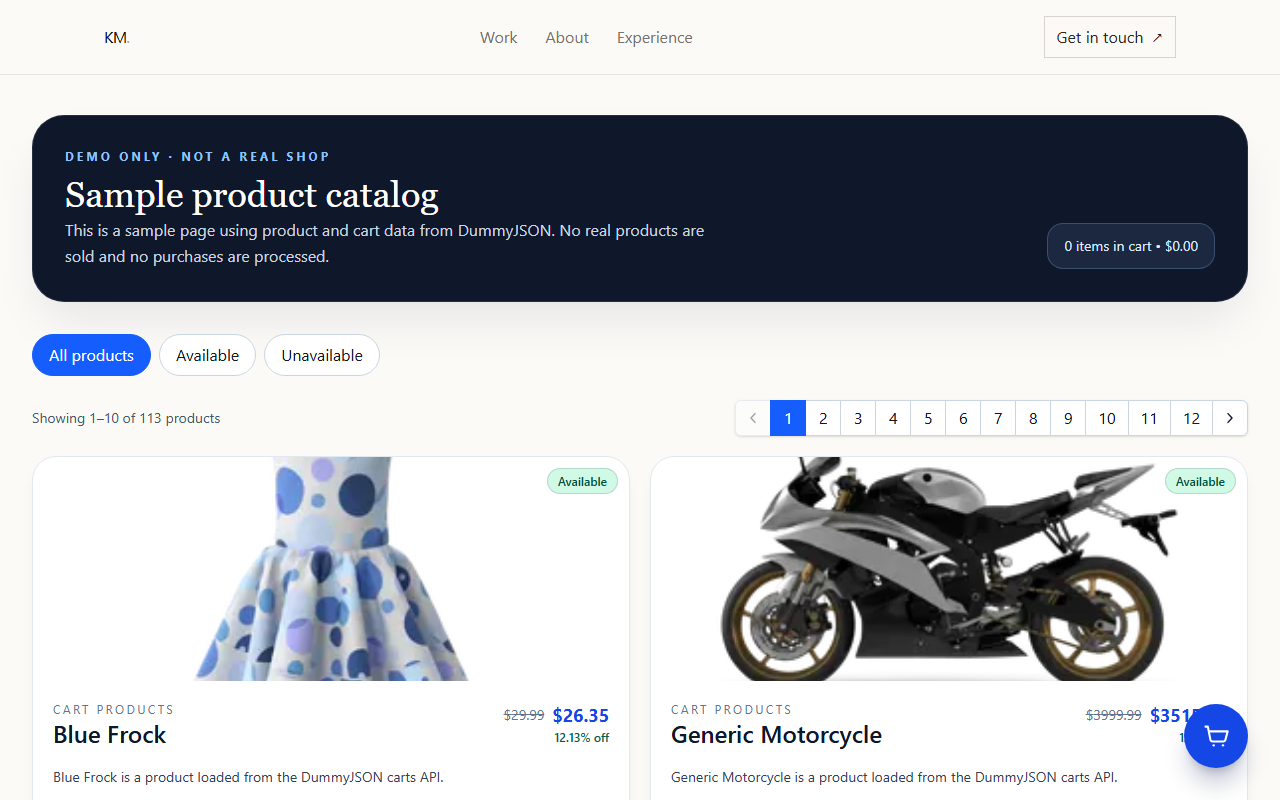
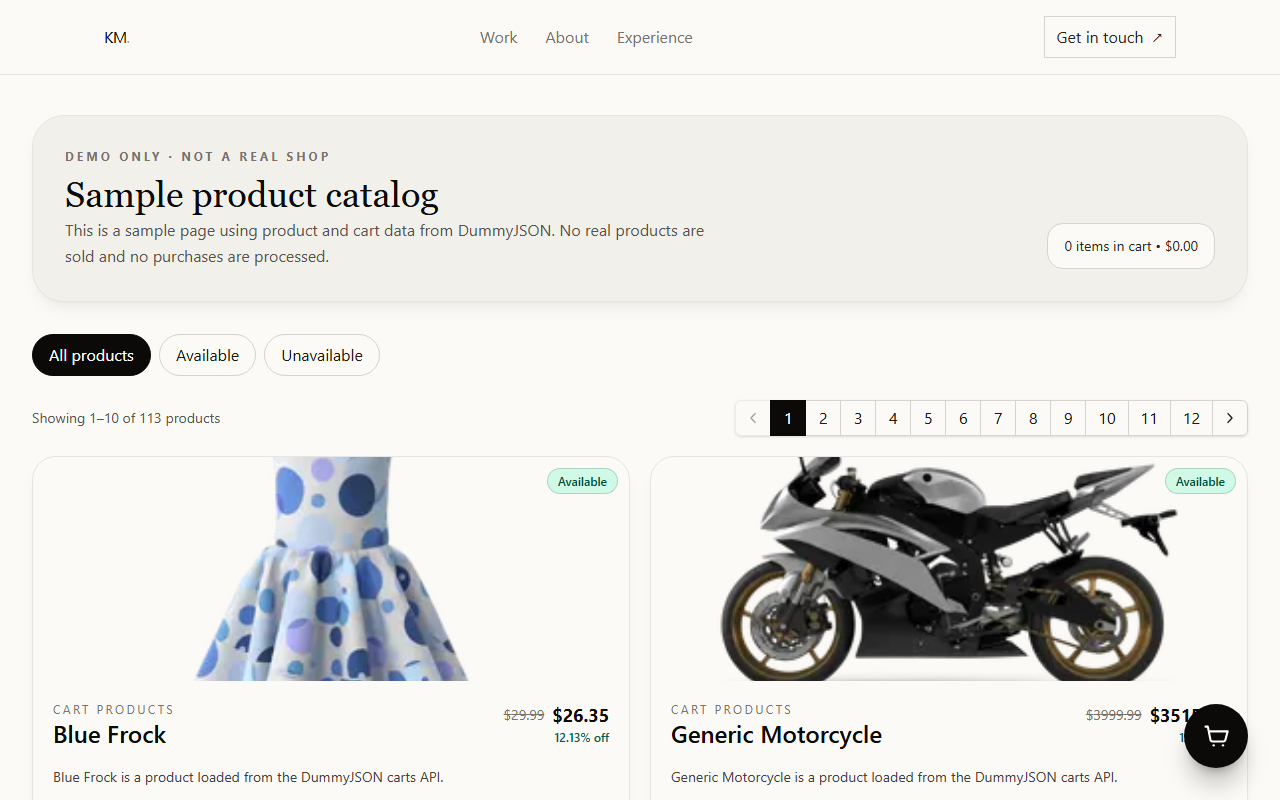
updated the UI of demo

diff --git a/src/routes/ShopPage.tsx b/src/routes/ShopPage.tsx
@@ -42,7 +42,7 @@ function ProductPagination({
       aria-label={`Product pages ${position}`}
       className="flex w-full min-w-0 flex-col items-center justify-between gap-3 sm:flex-row md:col-span-2"
     >
-      <p className="text-center text-sm text-slate-600 sm:text-left">
+      <p className="text-center text-sm text-stone-600 sm:text-left">
         Showing {(page - 1) * ITEMS_PER_PAGE + 1}–{Math.min(page * ITEMS_PER_PAGE, totalProducts)}{' '}
         of {totalProducts} products
       </p>
@@ -52,7 +52,7 @@ function ProductPagination({
           onClick={() => onPageChange(page - 1)}
           disabled={page === 1}
           aria-label="Previous page"
-          className="relative inline-flex h-9 w-9 items-center justify-center rounded-l-md border border-slate-300 bg-white text-slate-900 transition hover:bg-slate-100 focus-visible:z-10 focus-visible:outline-2 focus-visible:outline-offset-0 focus-visible:outline-blue-600 disabled:cursor-not-allowed disabled:opacity-40"
+          className="relative inline-flex h-9 w-9 items-center justify-center rounded-l-md border border-stone-300 bg-[#fbfaf7] text-stone-900 transition hover:bg-[#f2f0eb] focus-visible:z-10 focus-visible:outline-2 focus-visible:outline-offset-0 focus-visible:outline-stone-950 disabled:cursor-not-allowed disabled:opacity-40"
         >
           <svg aria-hidden="true" viewBox="0 0 20 20" fill="none" className="h-4 w-4">
             <path
@@ -72,11 +72,11 @@ function ProductPagination({
             aria-current={page === pageNumber ? 'page' : undefined}
             aria-label={`Page ${pageNumber}`}
             className={[
-              'relative -ml-px h-9 min-w-9 items-center justify-center border px-3 text-sm font-medium transition focus-visible:z-10 focus-visible:outline-2 focus-visible:outline-offset-0 focus-visible:outline-blue-600',
+              'relative -ml-px h-9 min-w-9 items-center justify-center border px-3 text-sm font-medium transition focus-visible:z-10 focus-visible:outline-2 focus-visible:outline-offset-0 focus-visible:outline-stone-950',
               pageNumber === page ? 'inline-flex' : 'hidden sm:inline-flex',
               page === pageNumber
-                ? 'z-10 border-blue-600 bg-blue-600 text-white'
-                : 'border-slate-300 bg-white text-slate-900 hover:bg-slate-100',
+                ? 'z-10 border-stone-950 bg-stone-950 text-white'
+                : 'border-stone-300 bg-[#fbfaf7] text-stone-900 hover:bg-[#f2f0eb]',
             ].join(' ')}
           >
             {pageNumber}
@@ -87,7 +87,7 @@ function ProductPagination({
           onClick={() => onPageChange(page + 1)}
           disabled={page === totalPages}
           aria-label="Next page"
-          className="relative -ml-px inline-flex h-9 w-9 items-center justify-center rounded-r-md border border-slate-300 bg-white text-slate-900 transition hover:bg-slate-100 focus-visible:z-10 focus-visible:outline-2 focus-visible:outline-offset-0 focus-visible:outline-blue-600 disabled:cursor-not-allowed disabled:opacity-40"
+          className="relative -ml-px inline-flex h-9 w-9 items-center justify-center rounded-r-md border border-stone-300 bg-[#fbfaf7] text-stone-900 transition hover:bg-[#f2f0eb] focus-visible:z-10 focus-visible:outline-2 focus-visible:outline-offset-0 focus-visible:outline-stone-950 disabled:cursor-not-allowed disabled:opacity-40"
         >
           <svg aria-hidden="true" viewBox="0 0 20 20" fill="none" className="h-4 w-4">
             <path
@@ -220,22 +220,22 @@ export default function ShopPage() {
 
   return (
     <main className="mx-auto max-w-7xl px-3 py-6 sm:px-6 sm:py-10 lg:px-8">
-      <header className="mb-6 rounded-3xl border border-white/10 bg-[#0f172a] p-4 text-white shadow-2xl shadow-slate-900/10 sm:mb-8 sm:rounded-[2rem] sm:p-8">
+      <header className="mb-6 rounded-3xl border border-stone-200 bg-[#f2f0eb] p-4 text-stone-950 shadow-lg shadow-stone-900/5 sm:mb-8 sm:rounded-[2rem] sm:p-8">
         <div className="flex flex-col gap-5 lg:flex-row lg:items-end lg:justify-between">
           <div>
-            <p className="mb-2 text-xs font-bold uppercase tracking-[0.25em] text-blue-300">
+            <p className="mb-2 text-xs font-bold uppercase tracking-[0.25em] text-stone-500">
               Demo only · not a real shop
             </p>
             <h1 className="font-serif text-2xl font-medium leading-tight sm:text-4xl">
               Sample product catalog
             </h1>
-            <p className="mt-3 max-w-2xl text-sm leading-relaxed text-slate-300 sm:text-base">
+            <p className="mt-3 max-w-2xl text-sm leading-relaxed text-stone-600 sm:text-base">
               This is a sample page using product and cart data from DummyJSON. No real products are
               sold and no purchases are processed.
             </p>
           </div>
 
-          <div className="w-fit max-w-full break-words rounded-2xl border border-blue-300/25 bg-blue-300/10 px-4 py-3 text-sm text-blue-100">
+          <div className="w-fit max-w-full break-words rounded-2xl border border-stone-300 bg-[#fbfaf7] px-4 py-3 text-sm text-stone-800">
             {totalItems} items in cart •{' '}
             {discountedTotal < totalPrice && (
               <span className="mr-1 line-through">${totalPrice.toFixed(2)}</span>
@@ -246,7 +246,7 @@ export default function ShopPage() {
       </header>
 
       {isLoading && (
-        <div className="mb-6 rounded-2xl border border-slate-200 bg-white p-4 text-slate-700">
+        <div className="mb-6 rounded-2xl border border-stone-200 bg-[#fbfaf7] p-4 text-stone-700">
           Loading products...
         </div>
       )}
@@ -270,8 +270,8 @@ export default function ShopPage() {
             className={[
               'rounded-full border px-4 py-2 text-sm font-medium transition',
               filter === option
-                ? 'border-blue-600 bg-blue-600 text-white'
-                : 'border-slate-300 bg-white text-slate-900 hover:bg-slate-50',
+                ? 'border-stone-950 bg-stone-950 text-white'
+                : 'border-stone-300 bg-[#fbfaf7] text-stone-900 hover:bg-[#f2f0eb]',
             ].join(' ')}
           >
             {option === 'all'
@@ -307,7 +307,7 @@ export default function ShopPage() {
               <article
                 key={item.id}
                 data-interactive-card
-                className="overflow-hidden rounded-3xl border border-slate-200 bg-white shadow-lg shadow-slate-900/5"
+                className="overflow-hidden rounded-3xl border border-stone-200 bg-[#fbfaf7] shadow-lg shadow-stone-900/5"
               >
                 <div className="group relative overflow-hidden">
                   <img
@@ -330,19 +330,19 @@ export default function ShopPage() {
                 <div className="space-y-4 p-4 sm:p-5">
                   <div className="flex flex-col items-start gap-2 sm:flex-row sm:justify-between sm:gap-3">
                     <div className="min-w-0">
-                      <p className="text-xs uppercase tracking-[0.2em] text-slate-500">
+                      <p className="text-xs uppercase tracking-[0.2em] text-stone-500">
                         {item.category}
                       </p>
-                      <h2 className="mt-2 break-words text-xl font-semibold text-slate-900 sm:text-2xl">
+                      <h2 className="mt-2 break-words text-xl font-semibold text-stone-950 sm:text-2xl">
                         {item.name}
                       </h2>
                     </div>
                     <div className="flex flex-wrap items-center gap-x-2 sm:flex-col sm:items-end">
                       <div className="flex items-center gap-2">
                         {hasDiscount && (
-                          <del className="text-sm text-slate-500">${item.price.toFixed(2)}</del>
+                          <del className="text-sm text-stone-500">${item.price.toFixed(2)}</del>
                         )}
-                        <span className="text-lg font-bold text-blue-700">
+                        <span className="text-lg font-bold text-stone-950">
                           ${(item.discountedPrice ?? item.price).toFixed(2)}
                         </span>
                       </div>
@@ -354,15 +354,15 @@ export default function ShopPage() {
                     </div>
                   </div>
 
-                  <p className="text-sm leading-6 text-slate-700">{item.description}</p>
+                  <p className="text-sm leading-6 text-stone-700">{item.description}</p>
 
                   <div className="flex flex-col items-stretch gap-3 pt-2 sm:flex-row sm:items-center">
-                    <label className="flex items-center gap-2 text-sm text-slate-700">
+                    <label className="flex items-center gap-2 text-sm text-stone-700">
                       Qty
                       <select
                         value={quantity}
                         onChange={(event) => handleQuantityChange(item.id, event.target.value)}
-                        className="rounded-lg border border-slate-300 bg-white px-2 py-1.5 text-slate-900 focus:border-blue-600 focus:outline-none focus:ring-2 focus:ring-blue-600/20"
+                        className="rounded-lg border border-stone-300 bg-[#fbfaf7] px-2 py-1.5 text-stone-900 focus:border-stone-700 focus:outline-none focus:ring-2 focus:ring-stone-700/20"
                         disabled={!item.available || remainingQuantity === 0}
                       >
                         {Array.from(
@@ -410,7 +410,7 @@ export default function ShopPage() {
         aria-label={`Open cart, ${totalItems} ${totalItems === 1 ? 'item' : 'items'}`}
         aria-haspopup="dialog"
         aria-expanded={isCartOpen}
-        className="fixed bottom-5 right-5 z-40 flex h-14 w-14 items-center justify-center rounded-full bg-blue-700 text-white shadow-xl shadow-blue-950/25 transition hover:bg-blue-800 focus-visible:outline-2 focus-visible:outline-offset-4 focus-visible:outline-blue-700 sm:bottom-8 sm:right-8 sm:h-16 sm:w-16"
+        className="fixed bottom-5 right-5 z-40 flex h-14 w-14 items-center justify-center rounded-full bg-stone-950 text-white shadow-xl shadow-stone-950/25 transition hover:bg-stone-700 focus-visible:outline-2 focus-visible:outline-offset-4 focus-visible:outline-stone-950 sm:bottom-8 sm:right-8 sm:h-16 sm:w-16"
       >
         <svg aria-hidden="true" viewBox="0 0 24 24" fill="none" className="h-7 w-7">
           <path
@@ -424,7 +424,7 @@ export default function ShopPage() {
           <circle cx="18" cy="20" r="1" fill="currentColor" />
         </svg>
         {totalItems > 0 && (
-          <span className="absolute -right-1 -top-1 flex h-6 min-w-6 items-center justify-center rounded-full bg-rose-600 px-1 text-xs font-bold text-white ring-2 ring-white">
+          <span className="absolute -right-1 -top-1 flex h-6 min-w-6 items-center justify-center rounded-full bg-rose-600 px-1 text-xs font-bold text-white ring-2 ring-[#fbfaf7]">
             {totalItems}
           </span>
         )}
@@ -438,18 +438,18 @@ export default function ShopPage() {
           initialFocusRef={cartCloseRef}
           returnFocusRef={cartTriggerRef}
           overlayClassName="flex justify-end"
-          backdropClassName="bg-slate-950/50"
-          panelClassName="flex h-full w-full max-w-xl flex-col bg-white shadow-2xl"
+          backdropClassName="bg-stone-950/50"
+          panelClassName="flex h-full w-full max-w-xl flex-col bg-[#fbfaf7] shadow-2xl"
         >
-          <div className="flex items-center justify-between gap-3 border-b border-slate-200 p-4 sm:p-6">
+          <div className="flex items-center justify-between gap-3 border-b border-stone-200 p-4 sm:p-6">
             <div>
               <h2
                 id="cart-dialog-title"
-                className="font-serif text-2xl font-semibold text-slate-900"
+                className="font-serif text-2xl font-semibold text-stone-950"
               >
                 Cart
               </h2>
-              <p className="mt-1 text-sm text-slate-600">
+              <p className="mt-1 text-sm text-stone-600">
                 {totalItems} {totalItems === 1 ? 'item' : 'items'}
               </p>
             </div>
@@ -458,7 +458,7 @@ export default function ShopPage() {
                 <button
                   type="button"
                   onClick={() => void handleClearCart()}
-                  className="text-sm font-medium text-slate-600 transition hover:text-slate-900"
+                  className="text-sm font-medium text-stone-600 transition hover:text-stone-950"
                 >
                   Clear all
                 </button>
@@ -468,7 +468,7 @@ export default function ShopPage() {
                 type="button"
                 onClick={closeCart}
                 aria-label="Close cart"
-                className="flex h-10 w-10 items-center justify-center rounded-full text-slate-600 transition hover:bg-slate-100 hover:text-slate-900 focus-visible:outline-2 focus-visible:outline-blue-600"
+                className="flex h-10 w-10 items-center justify-center rounded-full text-stone-600 transition hover:bg-[#f2f0eb] hover:text-stone-950 focus-visible:outline-2 focus-visible:outline-stone-950"
               >
                 <svg aria-hidden="true" viewBox="0 0 20 20" fill="none" className="h-5 w-5">
                   <path
@@ -484,7 +484,7 @@ export default function ShopPage() {
 
           <div className="min-h-0 flex-1 overflow-y-auto p-4 sm:p-6">
             {cartProducts.length === 0 ? (
-              <div className="rounded-2xl border border-dashed border-slate-300 bg-slate-50 p-6 text-center text-slate-600">
+              <div className="rounded-2xl border border-dashed border-stone-300 bg-[#f2f0eb] p-6 text-center text-stone-600">
                 Your cart is empty.
               </div>
             ) : (
@@ -493,7 +493,7 @@ export default function ShopPage() {
                   <li
                     key={item.id}
                     data-interactive-card
-                    className="flex gap-3 rounded-2xl border border-slate-200 bg-slate-50 p-3"
+                    className="flex gap-3 rounded-2xl border border-stone-200 bg-[#f2f0eb] p-3"
                   >
                     <img
                       src={item.image}
@@ -504,8 +504,8 @@ export default function ShopPage() {
                     <div className="min-w-0 flex-1">
                       <div className="flex items-start justify-between gap-3">
                         <div className="min-w-0">
-                          <p className="break-words font-medium text-slate-900">{item.name}</p>
-                          <p className="text-sm text-slate-600">${item.price} each</p>
+                          <p className="break-words font-medium text-stone-950">{item.name}</p>
+                          <p className="text-sm text-stone-600">${item.price} each</p>
                         </div>
                         <button
                           type="button"
@@ -528,11 +528,11 @@ export default function ShopPage() {
                                 }),
                               )
                             }
-                            className="h-8 w-8 rounded-full border border-slate-300 bg-slate-100 text-lg text-slate-900 hover:border-slate-400 focus-visible:outline-2 focus-visible:outline-blue-600"
+                            className="h-8 w-8 rounded-full border border-stone-300 bg-[#fbfaf7] text-lg text-stone-900 hover:border-stone-400 focus-visible:outline-2 focus-visible:outline-stone-950"
                           >
                             −
                           </button>
-                          <span className="min-w-8 text-center text-sm font-semibold text-slate-900">
+                          <span className="min-w-8 text-center text-sm font-semibold text-stone-900">
                             {item.cartQuantity}
                           </span>
                           <button
@@ -546,16 +546,16 @@ export default function ShopPage() {
                               )
                             }
                             disabled={item.cartQuantity >= item.quantity}
-                            className="h-8 w-8 rounded-full border border-slate-300 bg-slate-100 text-lg text-slate-900 hover:border-slate-400 focus-visible:outline-2 focus-visible:outline-blue-600 disabled:cursor-not-allowed disabled:opacity-50"
+                            className="h-8 w-8 rounded-full border border-stone-300 bg-[#fbfaf7] text-lg text-stone-900 hover:border-stone-400 focus-visible:outline-2 focus-visible:outline-stone-950 disabled:cursor-not-allowed disabled:opacity-50"
                           >
                             +
                           </button>
                         </div>
 
-                        <span className="flex w-full flex-wrap items-center justify-end gap-x-2 font-semibold text-blue-700 sm:w-auto">
+                        <span className="flex w-full flex-wrap items-center justify-end gap-x-2 font-semibold text-stone-950 sm:w-auto">
                           {item.discountedPrice !== undefined &&
                             item.discountedPrice < item.price && (
-                              <del className="text-sm font-normal text-slate-500">
+                              <del className="text-sm font-normal text-stone-500">
                                 ${(item.price * item.cartQuantity).toFixed(2)}
                               </del>
                             )}
@@ -570,16 +570,16 @@ export default function ShopPage() {
               </ul>
             )}
 
-            <div className="mt-6 space-y-3 border-t border-slate-200 pt-5 text-sm text-slate-600">
+            <div className="mt-6 space-y-3 border-t border-stone-200 pt-5 text-sm text-stone-600">
               <div className="flex items-center justify-between">
                 <span>Items</span>
                 <span>{totalItems}</span>
               </div>
-              <div className="flex items-center justify-between text-lg font-semibold text-slate-900">
+              <div className="flex items-center justify-between text-lg font-semibold text-stone-950">
                 <span>Total</span>
                 <span className="flex items-center gap-2">
                   {discountedTotal < totalPrice && (
-                    <del className="text-sm font-normal text-slate-500">
+                    <del className="text-sm font-normal text-stone-500">
                       ${totalPrice.toFixed(2)}
                     </del>
                   )}

diff --git a/src/shared/ui/Button.tsx b/src/shared/ui/Button.tsx
@@ -21,9 +21,9 @@ export function Button({
 }: ButtonProps) {
   const classes: Record<ButtonVariant, string> = {
     primary:
-      'rounded-xl bg-blue-600 px-4 py-2.5 font-semibold text-white transition hover:bg-blue-700 focus-visible:outline-2 focus-visible:outline-offset-2 focus-visible:outline-blue-600 disabled:cursor-not-allowed disabled:bg-slate-200 disabled:text-slate-500',
+      'rounded-xl bg-stone-950 px-4 py-2.5 font-semibold text-white transition hover:bg-stone-700 focus-visible:outline-2 focus-visible:outline-offset-2 focus-visible:outline-stone-950 disabled:cursor-not-allowed disabled:bg-stone-200 disabled:text-stone-500',
     secondary:
-      'rounded-xl border border-slate-300 bg-slate-100 px-4 py-2 font-semibold text-slate-900 transition hover:bg-white focus-visible:outline-2 focus-visible:outline-offset-2 focus-visible:outline-blue-600 disabled:cursor-not-allowed disabled:bg-slate-200 disabled:text-slate-500',
+      'rounded-xl border border-stone-300 bg-[#f2f0eb] px-4 py-2 font-semibold text-stone-900 transition hover:bg-[#fbfaf7] focus-visible:outline-2 focus-visible:outline-offset-2 focus-visible:outline-stone-950 disabled:cursor-not-allowed disabled:bg-stone-200 disabled:text-stone-500',
   };
 
   return (
